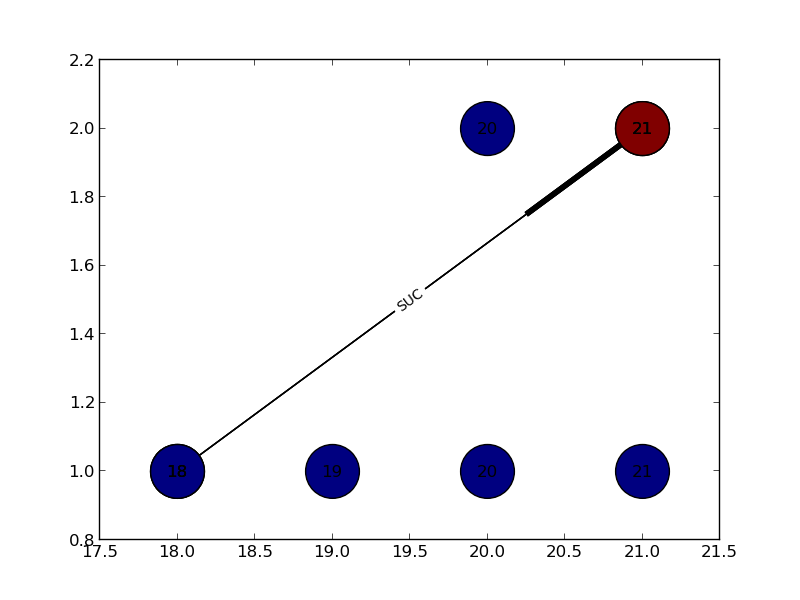
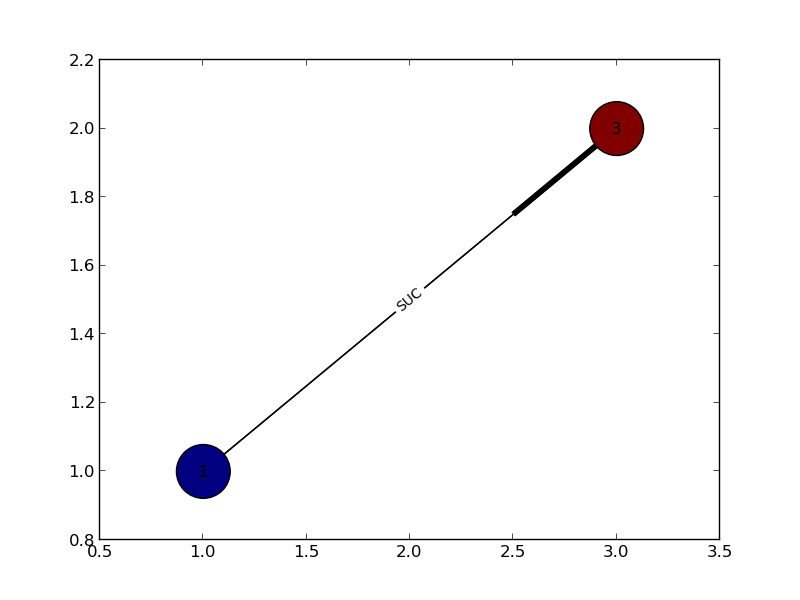
fixes rapidos

diff --git a/proyecto/templates/ver_grafo_desde_item.html b/proyecto/templates/ver_grafo_desde_item.html
@@ -15,7 +15,7 @@
 {% endblock %}
 
 {% block contenido %}
-        <h3 class="col-md-4  col-md-offset-4">Ver grafo de relaciones de {{ proy_nombre }}</h3>
+        <h3 class="col-md-4  col-md-offset-4">Ver grafo de relaciones de {{ item.nombre }}</h3>
 <div class="row">
 
         <div class="col-md-4  col-md-offset-2">

diff --git a/proyecto/views.py b/proyecto/views.py
@@ -348,8 +348,10 @@ def ver_grafo_desde_item(request, id_item):
     context = RequestContext(request)
     MG = nx.MultiDiGraph()
     item = Item.objects.get(id=id_item)
+    print item
     lista_items=[item]
     get_items(id_item,item.version,lista_items)
+    lista_items = list(set(lista_items))
     print lista_items
     #crear nodos
     i = 0
@@ -373,7 +375,7 @@ def ver_grafo_desde_item(request, id_item):
     #crear arcos
     edge_labels = []
     for item in lista_items:
-        antecesores_padres = relaciones.objects.filter(item_destino_id=item.id, item_destino_version=item.version).exclude(activo=False)
+        antecesores_padres = relaciones.objects.filter(item_origen_id=item.id, item_origen_version=item.version).exclude(activo=False)
         for ap in antecesores_padres:
             item_origen = ap.item_origen
             item_destino = ap.item_destino
@@ -393,6 +395,8 @@ def ver_grafo_desde_item(request, id_item):
     plt.savefig(image_path)
     #plt.show()
 
+    item_orig = Item.objects.get(id=id_item)
     itemlist = ListaItemTable(lista_items)
     RequestConfig(request, paginate={"per_page": 5}).configure(itemlist)
-    return render_to_response('ver_grafo_desde_item.html', {'image_name': "image.png", 'lista': itemlist,}, context)
+    return render_to_response('ver_grafo_desde_item.html', {'image_name': "image.png", 'lista': itemlist,
+                                                            'item': item_orig} , context)

diff --git a/solicitudCambio/views.py b/solicitudCambio/views.py
@@ -7,6 +7,7 @@ from django.core.urlresolvers import reverse
 from django.template import RequestContext
 from django_tables2 import RequestConfig
 from lineaBase.models import LineaBase
+from proyecto.views import ver_grafo_desde_item
 from solicitudCambio.models import Solicitud, Comite
 from solicitudCambio.forms import CrearSolicitudForm, SolicitudFilter, crear_comite_form, comite_filter
 from item.models import Item, relaciones
@@ -356,7 +357,6 @@ def ver_grafo_solicitud(request, id_solicitud):
     """
     Vista que implementa el grafo de dependencias de un item, para la evaluacion de una solicitud de cambio
     """
-    #TODO implementar!!!
-    context = RequestContext(request)
-    mensaje = 'NOT YET IMPLEMENTED'
-    return render_to_response('pagina_error.html', {'mensaje': mensaje}, context)
+
+    item = Solicitud.objects.get(id=id_solicitud).item
+    return ver_grafo_desde_item(request, item.id)
